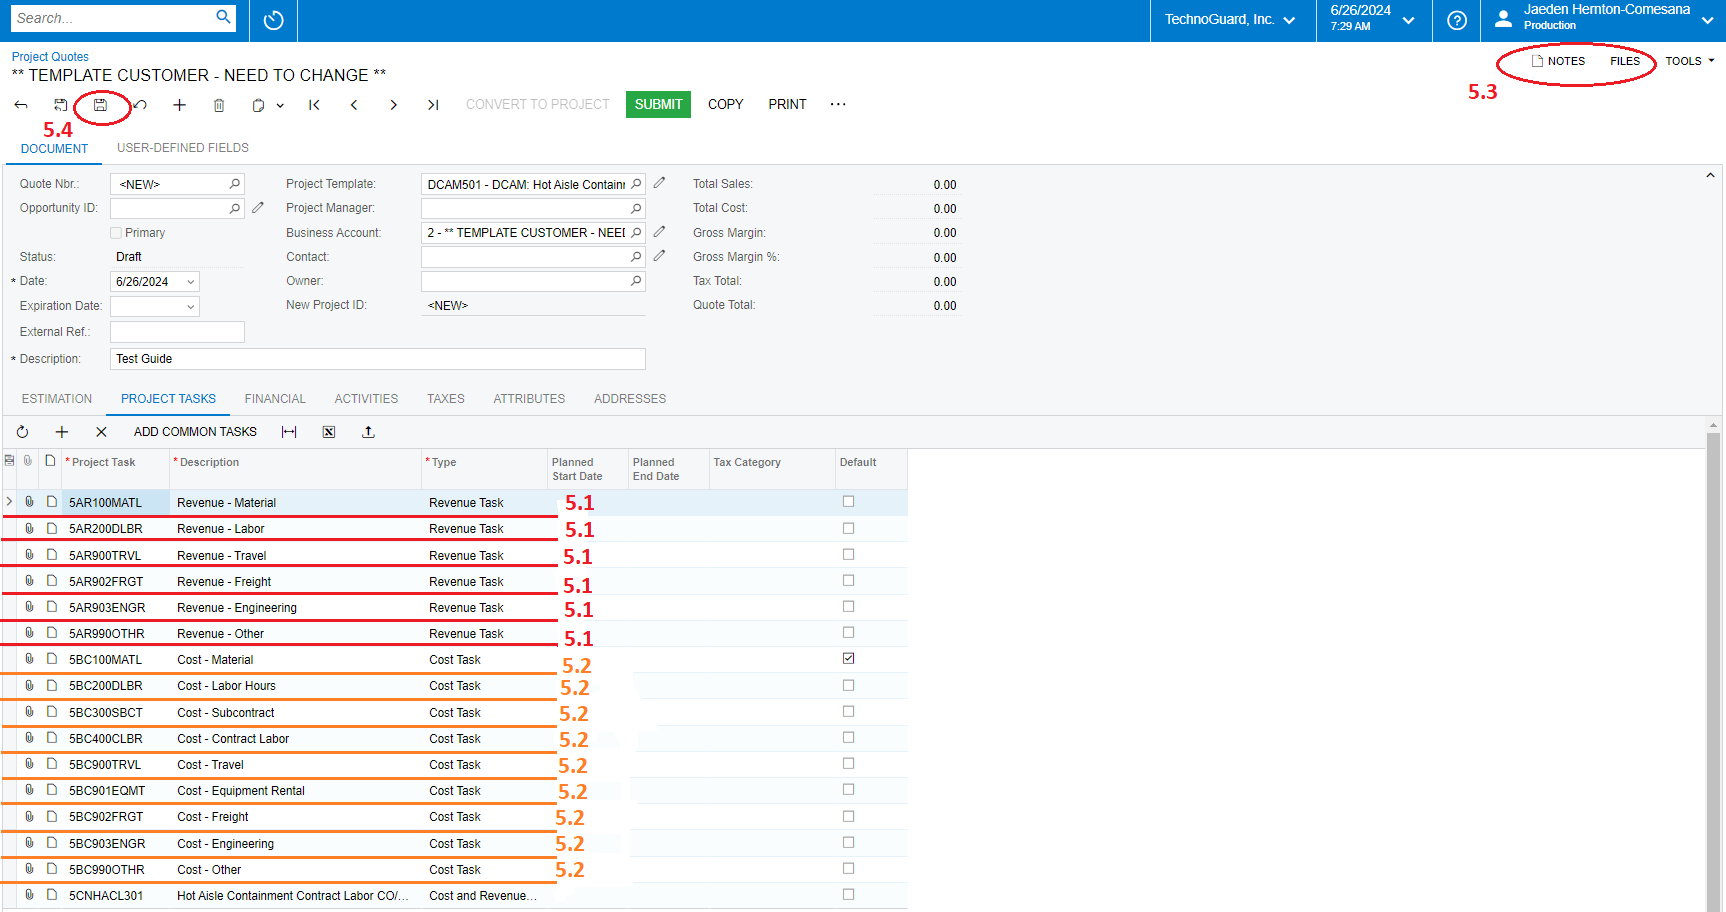
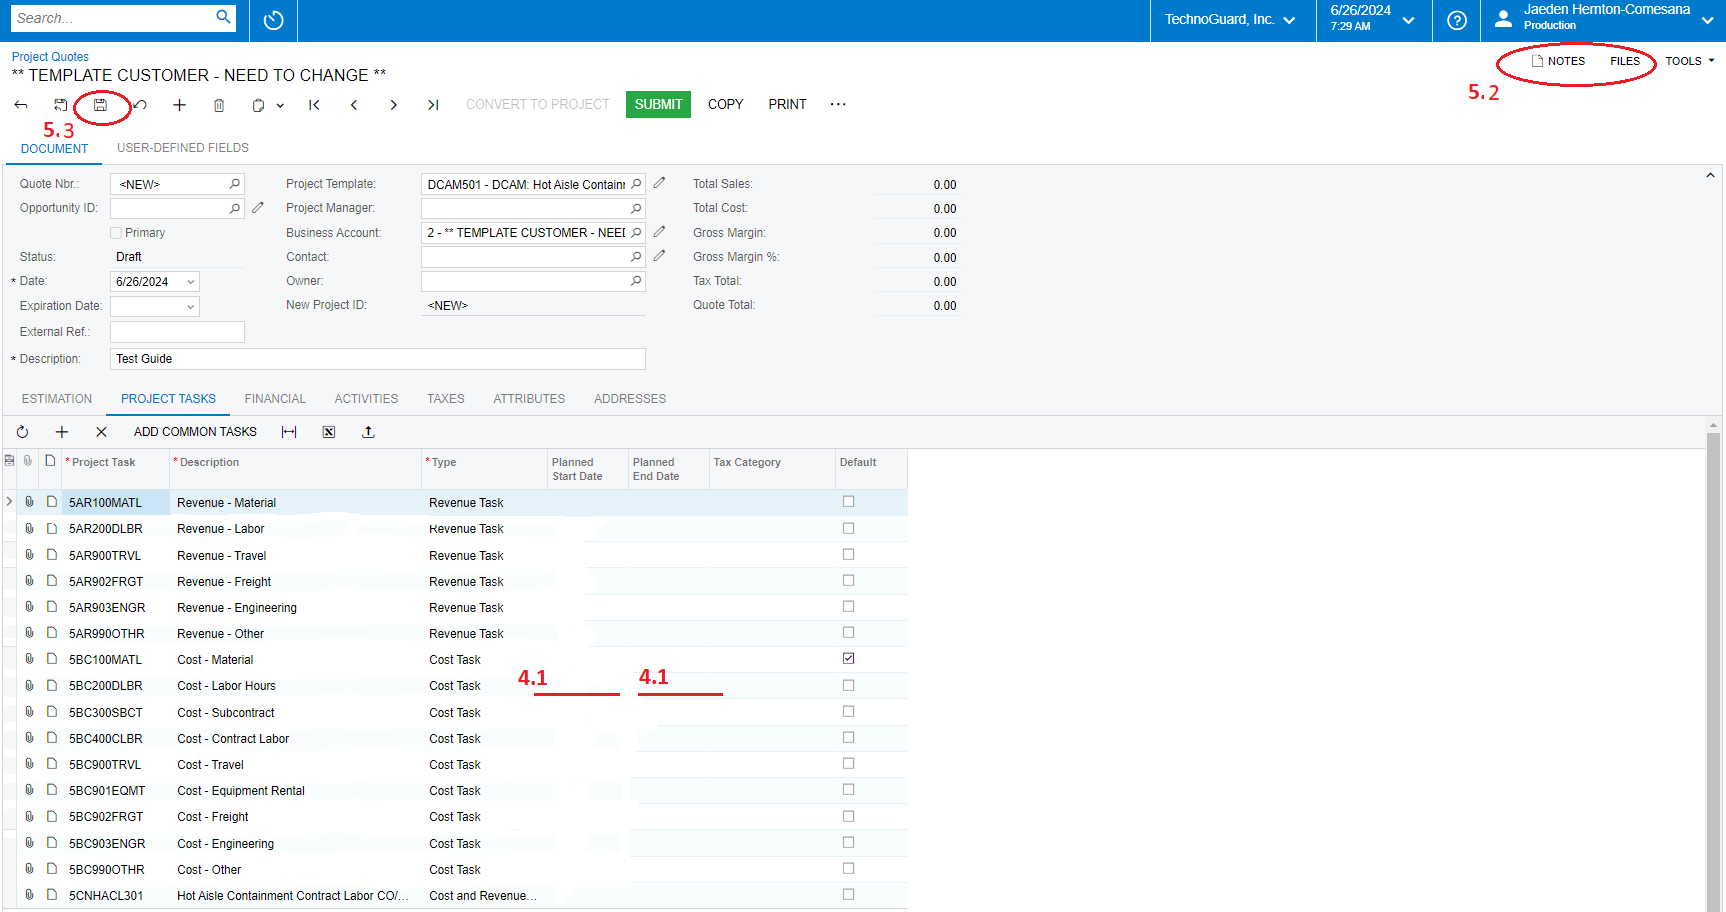
Add files via upload

Changed region(s): [[0.0, 0.5526, 0.3992, 0.9825]]

diff --git a/index.html b/index.html
@@ -13,7 +13,7 @@
                 height: 0;
                 overflow: hidden;
                 max-width: 100%;
-                background: #000;
+                background: #000000;
             }
             .video-container iframe,
             .video-container video {
@@ -82,7 +82,7 @@
 	<header class="major">
 		<button id="openPdfBtn">Check list (Containment)</button><br><br>
 		<span class="date">June 18, 2024</span>
-		<h2 id="TOP">Training Guide for PM’s to use Acumatica and Assignar <br> (Containment)</h2>
+		<h2 id="TOP">Project Manager Training Guide <br> (Containment)</h2>
 		<p>This guide starts from the time we make a PO, and then converting it to<br />
 		a Project Quote to a Project within Acumatica and the needed steps<br />in Assignar.</p>
 			<h4>Acumatica</h4>
@@ -112,7 +112,7 @@
 		</div>-->
 	<div class="container">									
 				<div class="video-wrapper">
-					<iframe src="https://www.youtube.com/embed/3sM4FEU84L8?si=zQooMPFZI6f7dXzk" title="YouTube video player" frameborder="0" allow="accelerometer; clipboard-write; encrypted-media; gyroscope; picture-in-picture; web-share" referrerpolicy="strict-origin-when-cross-origin" allowfullscreen></iframe>
+					<iframe src="https://www.youtube.com/embed/vxffihe3Lbc?si=uyWXWCIv5UOPvDrB" title="YouTube video player" frameborder="0" allow="accelerometer; clipboard-write; encrypted-media; gyroscope; picture-in-picture; web-share" referrerpolicy="strict-origin-when-cross-origin" allowfullscreen></iframe>
 				</div>
 		</div>
 </article>
@@ -164,7 +164,7 @@
 		</div>-->
 	<div class="container">									
 			<div class="video-wrapper">
-				<iframe src="https://www.youtube.com/embed/P3UwWhwNXwY" title="YouTube video player" frameborder="0" allow="accelerometer; clipboard-write; encrypted-media; gyroscope; picture-in-picture; web-share" allowfullscreen></iframe>
+				<iframe src="https://www.youtube.com/embed/o79S_zJuBgA?si=YOMzWEhBt7tGrHXA" title="YouTube video player" frameborder="0" allow="accelerometer; clipboard-write; encrypted-media; gyroscope; picture-in-picture; web-share" allowfullscreen></iframe>
 
 			</div>
 		</div>
@@ -330,10 +330,22 @@
 						<li>4.1 &nbsp;&nbsp;&nbsp;Select the right Business Account</li><br>
 						<li>4.2 &nbsp;&nbsp;&nbsp;Link the Opportunity you made with the Project Quote</li><br>
 						<li>4.3 &nbsp;&nbsp;&nbsp;Add Project Manager, Contact, Owner, Expiration Date, and a Description</li><br>
-						<li>4.4 &nbsp;&nbsp;&nbsp;Save</li>
+						<li>4.4 &nbsp;&nbsp;&nbsp;Add the External Ref. (Po Number)</li><br>
+						<li>4.5 &nbsp;&nbsp;&nbsp;Save</li>
 					</ul>
 				</p>		
 	</article>
+
+
+<!--					<li>5.1 &nbsp;&nbsp;&nbsp;Use only the Revenue Line you need and <strong class="red">Delete the rest</strong> (every Revenue Line will be displayed)</li><br>
+						<li>5.2 &nbsp;&nbsp;&nbsp;Go back to the sales Quote add the Material cost together and add them in the corresponding line add any additional cost in as well like Labor or travel cost</li><br>
+						<li>5.3 &nbsp;&nbsp;&nbsp;Add any notes and files that might be needed</li><br>
+						<li>5.4 &nbsp;&nbsp;&nbsp;Save</li>
+-->
+
+
+
+
 	<article>
 		<header>
 			<h2>Step 5.</h2>
@@ -341,10 +353,10 @@
 			<a class="image fit"><img src="images/Project quote6.png" alt="" /></a>
 				<p>
 					<ul class="Makeleft">
-						<li>5.1 &nbsp;&nbsp;&nbsp;Use only the Revenue Line you need and <strong class="red">Delete the rest</strong> (every Revenue Line will be displayed)</li><br>
-						<li>5.2 &nbsp;&nbsp;&nbsp;Go back to the sales Quote add the Material cost together and add them in the corresponding line add any additional cost in as well like Labor or travel cost</li><br>
-						<li>5.3 &nbsp;&nbsp;&nbsp;Add any notes and files that might be needed</li><br>
-						<li>5.4 &nbsp;&nbsp;&nbsp;Save</li>
+						<li>5.1 &nbsp;&nbsp;&nbsp;Put in your Start and End Date</li><br>
+						<li>5.2 &nbsp;&nbsp;&nbsp;Add any notes and files that might be needed and Add the SOW into Notes</li><br>
+						<li>5.3 &nbsp;&nbsp;&nbsp;Save</li><br>
+						
 					</ul>
 				</p>		</article>
 	<article>

diff --git a/specialty.html b/specialty.html
@@ -79,7 +79,7 @@
 									<button id="openPdfBtn">Check list (i dont know yet yet)</button>&nbsp&nbsp&nbsp&nbsp&nbsp&nbsp&nbsp&nbsp&nbsp&nbsp&nbsp&nbsp&nbsp&nbsp&nbsp&nbsp&nbsp&nbsp&nbsp&nbsp&nbsp&nbsp&nbsp&nbsp&nbsp&nbsp&nbsp&nbsp&nbsp&nbsp&nbsp&nbsp&nbsp&nbsp&nbsp&nbsp
                                     &nbsp&nbsp&nbsp&nbsp&nbsp&nbsp&nbsp&nbsp&nbsp&nbsp&nbsp&nbsp&nbsp&nbsp&nbsp&nbsp<button id="openPdfBtn">Check list (i dont know yet yet)</button><br><br>
 									<span class="date">June 18, 2024</span>
-									<h2 id="TOP">Training Guide for PM’s to use Acumatica and Assignar <br> (Specialties)</h2>
+									<h2 id="TOP">Project Manager Training Guide<br> (Specialties)</h2>
 									<p>This guide starts from the time we make a PO, and then converting it to<br />
 										a Project Quote to a Project within Acumatica and the needed steps<br />
 										in Assignar.</p>

diff --git a/generic.html b/generic.html
@@ -74,7 +74,7 @@
 								<header class="major">
 									<button id="openPdfBtn">Check list (Cleaning)</button><br><br>
 									<span class="date">June 18, 2024</span>
-									<h2 id="TOP">Training Guide for PM’s to use Acumatica and Assignar <br> (Cleaning)</h2>
+									<h2 id="TOP">Project Manager Training Guide<br> (Cleaning)</h2>
 									<p>This guide starts from the time we make a PO, and then converting it to<br />
 										a Project Quote to a Project within Acumatica and the needed steps<br />
 										in Assignar.</p>

diff --git a/elements.html b/elements.html
@@ -75,7 +75,7 @@
 							<header class="major">
 								<button id="openPdfBtn">Check list (BlueMamba)</button><br><br>
 								<span class="date">June 18, 2024</span>
-								<h2 id="TOP">Training Guide for PM’s to use Acumatica and Assignar <br> (BlueMamba)</h2>
+								<h2 id="TOP">Project Manager Training Guide <br> (BlueMamba)</h2>
 								<p>This guide starts from the time we make a PO, and then converting it to<br />
 									a Project Quote to a Project within Acumatica and the needed steps<br />
 									in Assignar.</p>

diff --git a/error.html b/error.html
@@ -69,7 +69,7 @@
 	<header class="major">
 	
 		<span class="date">June 18, 2024</span>
-		<h2 id="TOP">These are full videos of the diffrent guids</h2>
+		<h2 id="TOP">These are error videos of the diffrent guids</h2>
 		
 			<h4>Acumatica</h4>
 				<a href="#one" class="scrolly">Containment</a><br>
